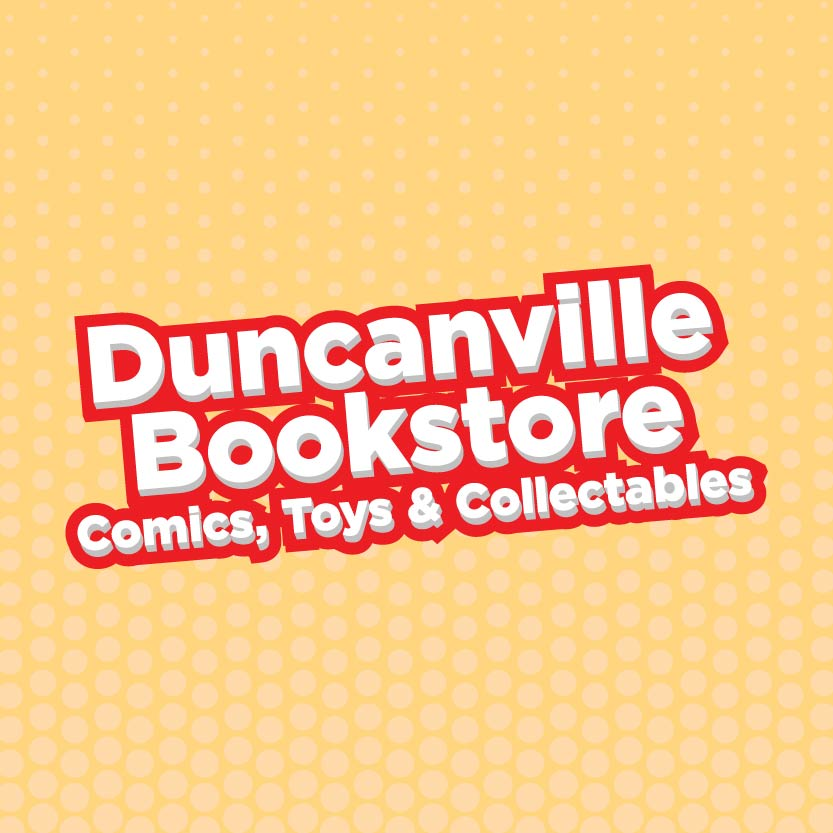
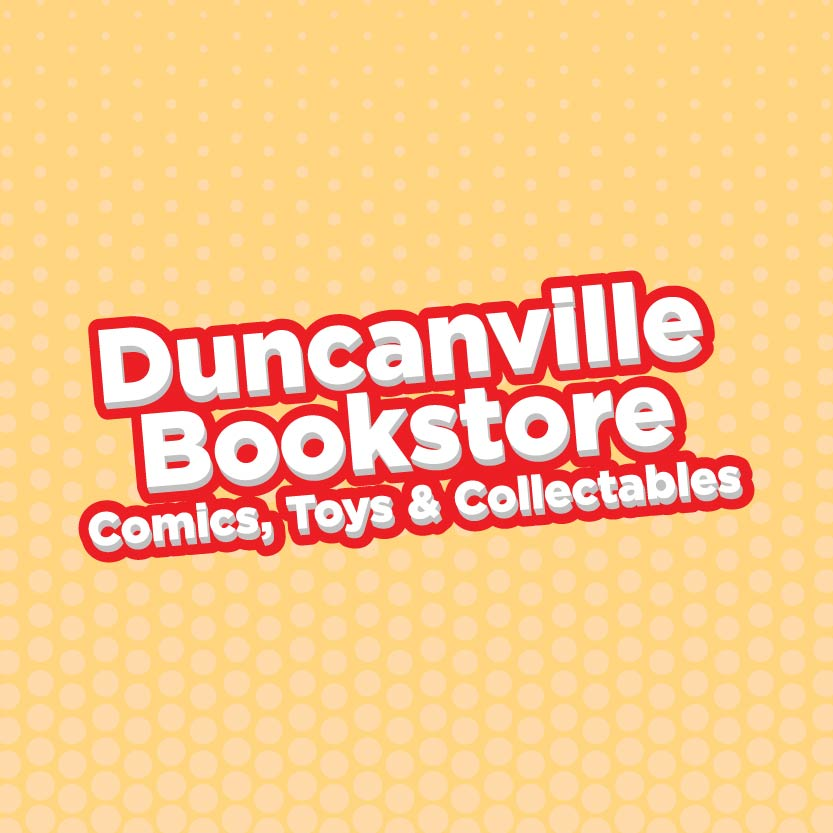
Update links in work

diff --git a/app/work/page.jsx b/app/work/page.jsx
@@ -27,10 +27,12 @@ const projects = [
       { name: "React", color: "bg-sky-100 text-sky-700" },
       { name: "Next.js", color: "bg-gray-200 text-gray-900" },
       { name: "Tailwind CSS", color: "bg-cyan-100 text-cyan-700" },
+      { name: "Radix UI", color: "bg-red-200 text-black" },
+      { name: "Lucide React", color: "bg-yellow-100 text-black" },
     ],
     github: "https://github.com/DakotaK92/myPocketBard",
     live: "https://my-pocket-bard.vercel.app/",
-    isNew: true,
+    isNew: false,
   },
   {
     id: 2,
@@ -39,9 +41,15 @@ const projects = [
       "A mobile app concept for browsing events, tracking rewards, and making it easier for comic fans to stay connected with a local shop.",
     image: "/assets/work/design-image-1.jpg",
     tools: [
+      { name: "Expo", color: "bg-sky-100 text-sky-700" },
       { name: "React-Native", color: "bg-sky-100 text-sky-700" },
+      { name: "React", color: "bg-sky-100 text-sky-700" },
       { name: "Tailwind CSS", color: "bg-cyan-100 text-cyan-700" },
-      { name: "Clerk", color: "bg-green-200 text-green-700" },
+      { name: "Nativewind CSS", color: "bg-cyan-100 text-cyan-700" },
+      { name: "Clerk-Expo", color: "bg-red-200 text-black" },
+      { name: "Axios", color: "bg-yellow-100 text-black" },
+      { name: "Tanstack", color: "bg-purple-300 text-black" },
+      { name: "Expo-Image", color: "bg-pink-200 text-black" },
     ],
     github: "https://github.com/DakotaK92/DuncanvilleComics-ReactNative",
     live: "https://www.youtube.com/watch?v=NU1NDJTvKzg",
@@ -49,19 +57,21 @@ const projects = [
   },
   {
     id: 3,
-    title: "Dakota King Portfolio",
+    title: "Lick",
     description:
-      "A personal portfolio built to showcase both frontend development and design work through a more polished, brand-aware experience.",
-    image: "/assets/work/development-image-3.jpg",
+      "Lick is a playful ice cream brand website built with Next.js. The project showcases featured flavors, brand storytelling, rewards messaging, and a Where to Buy experience with a lightweight Google Maps-style locator.",
+    image: "/assets/work/design-image-2.jpg",
     tools: [
       { name: "React", color: "bg-sky-100 text-sky-700" },
       { name: "Next.js", color: "bg-gray-200 text-gray-900" },
       { name: "Tailwind CSS", color: "bg-cyan-100 text-cyan-700" },
+      { name: "Radix UI", color: "bg-red-200 text-black" },
+      { name: "Lucide React", color: "bg-yellow-100 text-black" },
     ],
     github: "https://github.com/DakotaK92/DakotaK92-Portfolio",
-    live: "https://dakotavking.dev",
-    isNew: false,
-  },
+    live: "https://lick-one.vercel.app/",
+    isNew: true,
+  }
 ];
 
 const designs = [